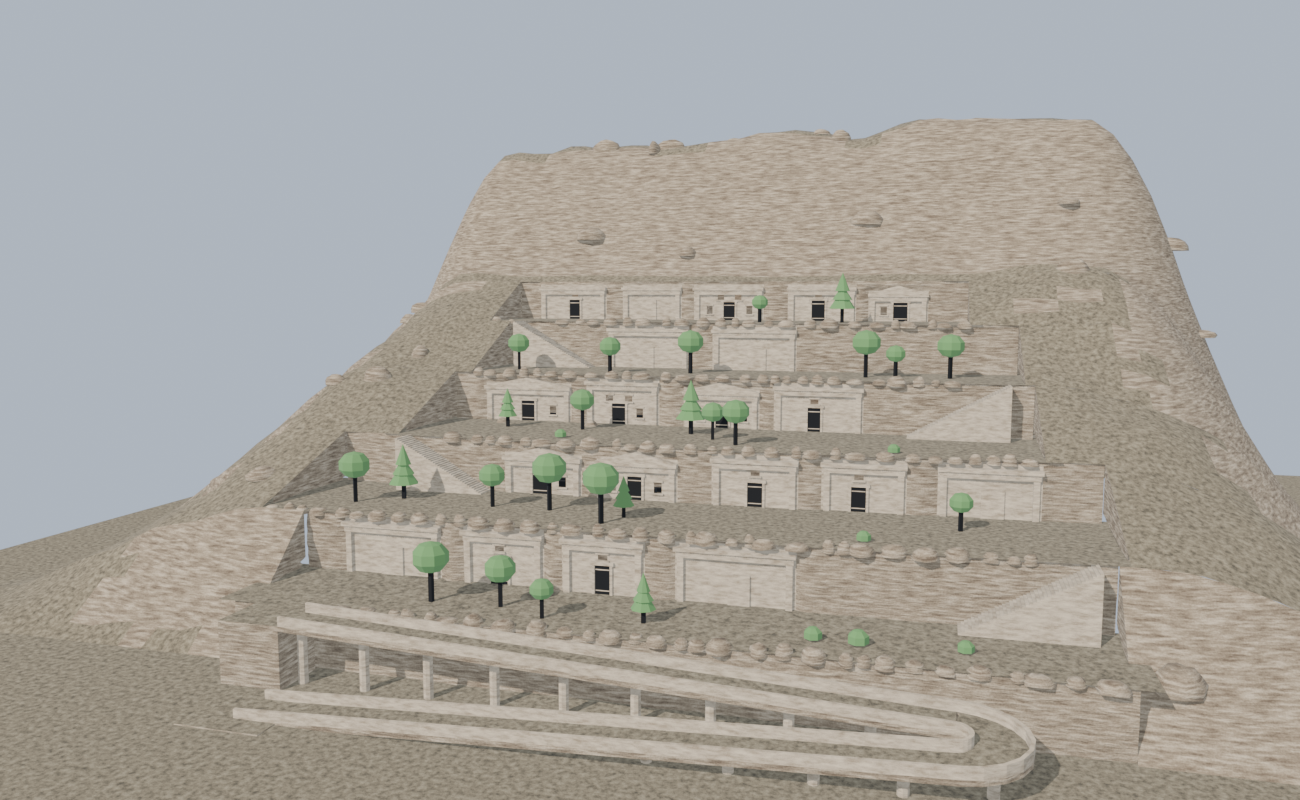
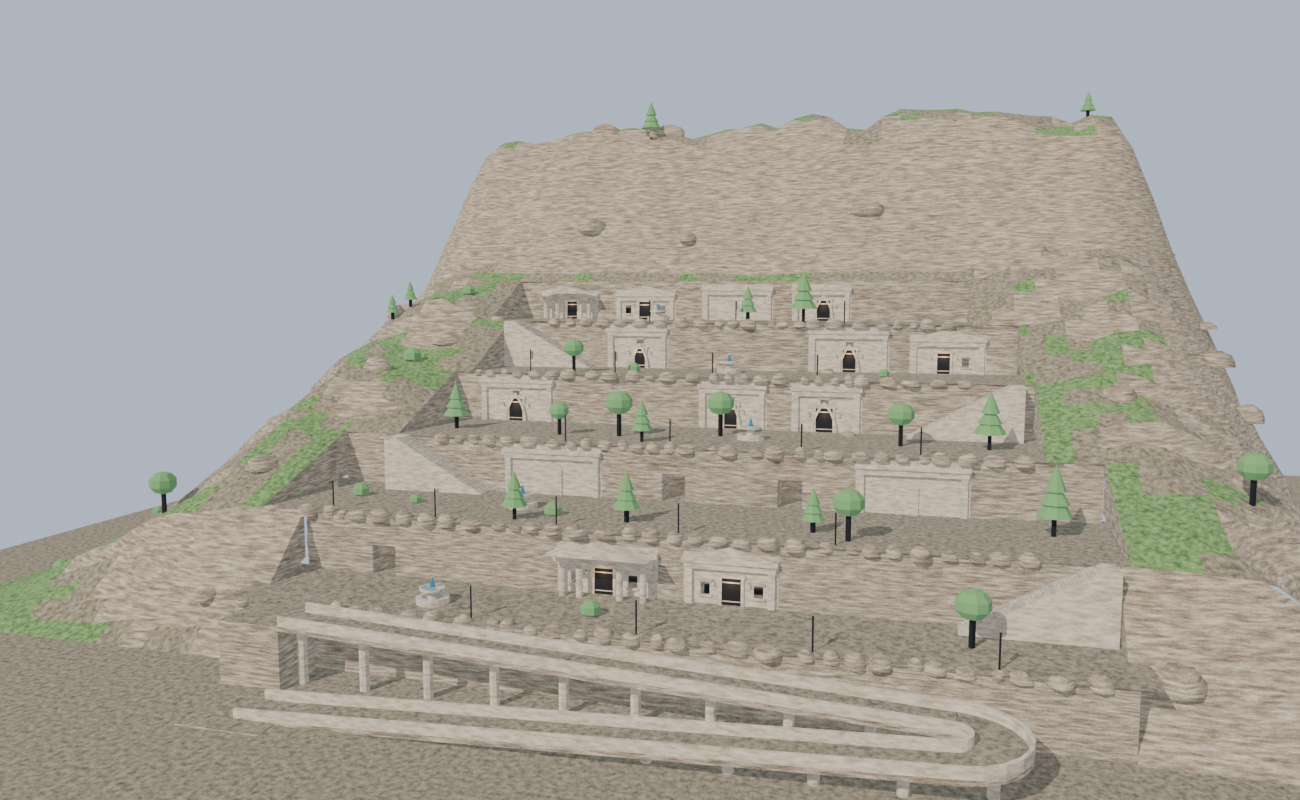
Release 0.62.0: richer rock city and one grouped Add-a-plan menu
Rock city: crags, grass and scrub on the mountain, porticos, arched tomb surrounds, lanterns, furnished rooms, caves with stalactites and a pool, fountains and flags. Plans panel: ~28 buttons replaced by one grouped Add menu (tested to offer every plan kind once); panel no longer experimental.

diff --git a/levelArchitect_v2.py b/levelArchitect_v2.py
@@ -33,7 +33,7 @@ from bpy_extras.io_utils import ExportHelper, ImportHelper
 bl_info = {
     "name": "Game Level Architect",
     "author": "Ivica Sršan",
-    "version": (0, 61, 0),
+    "version": (0, 62, 0),
     "blender": (4, 2, 0),
     "location": "View3D > Sidebar > Level Architect Tab",
     "description": "Procedural game level generator using Python WFC and automatic Geometry Nodes meshing.",
@@ -15280,6 +15280,8 @@ def _rock_material(kind):
     dim = lambda c, f: tuple(v * f for v in c)
     if part[0] == "CARVED":
         dark, mid, light, strata, grain, bump = dim(tone[1], 0.6), dim(tone[2], 0.75), dim(tone[2], 1.0), (0.5, 0.5, 2.0), 14.0, 0.12
+    elif part[0] == "GRASS":
+        dark, mid, light, strata, grain, bump = (0.05, 0.10, 0.03), (0.15, 0.26, 0.07), (0.30, 0.38, 0.13), (1.0, 1.0, 1.0), 7.0, 0.45
     elif part[0] == "GROUND":
         dark, mid, light, strata, grain, bump = (0.10, 0.08, 0.05), (0.26, 0.20, 0.12), (0.40, 0.32, 0.20), (1.0, 1.0, 1.0), 9.0, 0.35
     else:
@@ -15621,6 +15623,8 @@ def _rc_mountain(dm, seed):
         m = _rc_smooth(dist_city(x, y) / 10.0)
         amp = 1.5 + 0.1 * base
         n = (_rc_fbm(x * 0.035, y * 0.035, 3.7, seed, 4) - 0.5) * 2.0 * amp + (_rc_noise(x * 0.17, y * 0.17, 1.1, seed + 3) - 0.5) * 1.2
+        ridge = 1.0 - abs(2.0 * _rc_fbm(x * 0.06, y * 0.06, 9.1, seed + 9, 3) - 1.0)          # crags and ridges, stronger the higher it gets
+        n += (ridge - 0.5) * 7.0 * min(1.0, base / 25.0)
         return max(0.0, base + m * n * (1.0 if base > 0.4 else base / 0.4))
     N.boundary = lambda x, y: prof(y) * (1.0 - _rc_smooth((abs(x) - wc) / fl))
     N.x_extent = wc + fl
@@ -15652,7 +15656,7 @@ def _rc_natural_mesh(soup, N, dm, sd):
                     vx, vy, vz = pts[3][0] - pts[0][0], pts[3][1] - pts[0][1], pts[3][2] - pts[0][2]
                     nz = ux * vy - uy * vx
                     nl = math.sqrt((uy * vz - uz * vy) ** 2 + (uz * vx - ux * vz) ** 2 + nz * nz) or 1.0
-                    soup.poly('nat', pts, [(pt[0] / 6.0, pt[1] / 6.0) for pt in pts], (0.0, 0.0, 1.0), 2 if nz / nl > 0.82 else 0, smooth=True)
+                    soup.poly('nat', pts, [(pt[0] / 6.0, pt[1] / 6.0) for pt in pts], (0.0, 0.0, 1.0), (7 if nz / nl > 0.9 else 2) if nz / nl > 0.82 else 0, smooth=True)
     for k in range(dm["L"]):
         ya, yz = (y0 if k == 0 else yb[k - 1]), yb[k]
         ext = {-wl[j] for j in (k - 1, k, k + 1) if 0 <= j < dm["L"]} | {wr[j] for j in (k - 1, k, k + 1) if 0 <= j < dm["L"]}
@@ -15691,6 +15695,32 @@ def _rc_cave(soup, cx, yf, cyc, R, zk, rng, seed):
     for i in range(m):
         a, b = ring[i], ring[(i + 1) % m]
         soup.poly('cavef', [(a[0], a[1], zk), (b[0], b[1], zk), (cx, cyc, zk)], [(0, 0), (1, 0), (0.5, 1)], (0.0, 0.0, 1.0), 2)
+    # stalactites from the ceiling, stalagmites and a pool on the floor
+    obst = []
+    for i in range(8):
+        ang = rng.uniform(0, 6.28)
+        rr_ = rng.uniform(0.2, 0.75) * R
+        sx_, sy_ = cx + rr_ * math.cos(ang), cyc + rr_ * math.sin(ang)
+        zce = zc + (hc - zc) * (1.0 - min(1.0, rr_ / R))
+        rb, ln = rng.uniform(0.2, 0.4), rng.uniform(0.5, 1.2)
+        for q in range(6):
+            a0, a1 = 2 * math.pi * q / 6, 2 * math.pi * (q + 1) / 6
+            soup.poly('stal', [(sx_ + rb * math.cos(a0), sy_ + rb * math.sin(a0), zce), (sx_ + rb * math.cos(a1), sy_ + rb * math.sin(a1), zce), (sx_, sy_, zce - ln)],
+                      [(0, 0), (1, 0), (0.5, 1)], (math.cos((a0 + a1) / 2), math.sin((a0 + a1) / 2), -0.4), 0, smooth=True)
+    for i in range(3):
+        ang = rng.uniform(0, 6.28)
+        rr_ = rng.uniform(0.45, 0.8) * R
+        sx_, sy_ = cx + rr_ * math.cos(ang), cyc + rr_ * math.sin(ang)
+        if sy_ < cyc - 0.55 * R or (abs(sx_ - cx) < 0.7 * R + 0.5 and abs(sy_ - cyc) < 0.7 * R + 0.5 and R < 4.0):
+            continue
+        rb = rng.uniform(0.25, 0.45)
+        _cone(soup, sx_, sy_, zk, rb, rng.uniform(0.7, 1.5), 6, 0)
+        obst.append((sx_, sy_, rb + 0.1))
+    if R >= 4.0:
+        px_, py_ = cx + R * 0.15, cyc + R * 0.1
+        _tc_quad(soup, [_tc_pt(px_, py_, zk + 0.03, 1.1, 2 * math.pi * q / 10) for q in range(10)], (0, 0, 1), TC_WATER_SLOT)
+        obst.append((px_, py_, 1.2))
+    return obst
 
 
 def _build_rock_city(p, seed):
@@ -15785,7 +15815,7 @@ def _build_rock_city(p, seed):
                 fx += fw + rng.uniform(2.5, 6.0)
                 continue
             is_cave = rng.random() < 0.3 * float(p.get("caves", 0.5)) and k + 1 < L
-            kind = "cave" if is_cave else rng.choice(("temple", "house", "tomb", "tomb", "sealed"))
+            kind = "cave" if is_cave else rng.choice(("temple", "house", "tomb", "tomb", "portico", "sealed"))
             if is_cave:
                 fw = rng.uniform(9.0, 11.0)
                 if fx + fw > wr[k] - 4.0:
@@ -15793,7 +15823,7 @@ def _build_rock_city(p, seed):
                 if fx + fw + 1.0 > zone[0] and fx - 1.0 < zone[1]:
                     fx = zone[1] + 1.0
                     continue
-            fh = min(rk - 1.0, rk - 2.0 if kind == "temple" else rk - 1.0)
+            fh = min(rk - 1.0, rk - 2.0 if kind in ("temple", "portico") else rk - 1.0)
             fxm = fx + fw / 2 + rng.uniform(-0.6, 0.6)
             dw = rng.uniform(1.7, 2.3)
             dh = 3.0 if kind != "tomb" else 3.3
@@ -15804,7 +15834,7 @@ def _build_rock_city(p, seed):
             avail = rd
             rd = max(3.5, min(rd, rng.uniform(5.0, 9.0)))
             rx0, rx1 = fx + 0.9, fx + fw - 0.9
-            if kind == "temple":
+            if kind in ("temple", "portico"):
                 wins = [(fxm - fw * 0.3 - 0.5, fxm - fw * 0.3 + 0.5, 1.0, 2.4), (fxm + fw * 0.3 - 0.5, fxm + fw * 0.3 + 0.5, 1.0, 2.4)]
             elif kind == "house":
                 wins = [(fxm - fw * 0.3 - 0.5, fxm - fw * 0.3 + 0.5, 1.0, 2.4), (fxm + fw * 0.3 - 0.5, fxm + fw * 0.3 + 0.5, 1.0, 2.4),
@@ -15822,9 +15852,10 @@ def _build_rock_city(p, seed):
                     flats.append((fxm - 2.6, fxm + 2.6, zk, zk + 4.4, yf, 0))
                     holes.append((fxm - 1.5, fxm + 1.5, zk, zk + 3.4))
                     cyc = yf + 3.0 + 0.3 * cR + 0.7 * cR
-                    _rc_cave(soup, fxm, yf, cyc, cR, zk, rng, sd + int(fxm * 3) + k)
+                    cobst = _rc_cave(soup, fxm, yf, cyc, cR, zk, rng, sd + int(fxm * 3) + k)
                     layout["rooms"].append({"rect": [fxm - 1.5, yf, fxm + 1.5, cyc - 0.7 * cR], "z": zk, "door": [fxm - 1.5, fxm + 1.5], "wall": ybl, "furn": [], "kind": "cave"})
-                    layout["rooms"].append({"rect": [fxm - 0.7 * cR, cyc - 0.7 * cR, fxm + 0.7 * cR, cyc + 0.7 * cR], "z": zk, "door": [fxm - 1.5, fxm + 1.5], "wall": ybl, "furn": [], "kind": "cave"})
+                    layout["rooms"].append({"rect": [fxm - 0.7 * cR, cyc - 0.7 * cR, fxm + 0.7 * cR, cyc + 0.7 * cR], "z": zk, "door": [fxm - 1.5, fxm + 1.5], "wall": ybl,
+                                            "furn": [[ox_, oy_, 0.0, orr, orr] for ox_, oy_, orr in cobst if abs(ox_ - fxm) < 0.7 * cR and abs(oy_ - cyc) < 0.7 * cR], "kind": "cave"})
                     lights.append([fxm, cyc, zk + 3.0, 200.0])
                     layout["throats"].append([fxm - 1.5, ybl - 0.3, fxm + 1.5, yf + 0.3, zk])
                     layout["facades"] += 1
@@ -15839,8 +15870,24 @@ def _build_rock_city(p, seed):
                 _tc_box(soup, px, yf - 0.25, zk, 0.7, 0.5, fh - 1.2, 1)
             _tc_box(soup, fx + fw / 2, yf - 0.3, zk + fh - 1.2, fw + 0.2, 0.6, 0.7, 1)
             _tc_box(soup, fx + fw / 2, yf - 0.45, zk + fh - 0.5, fw + 0.7, 0.9, 0.5, 1)
-            if kind == "temple":
-                _rc_pediment(soup, fx + fw / 2, yf - 0.1, zk + fh, fw + 0.7, 1.3, 0.8)
+            if kind in ("temple", "portico"):
+                _rc_pediment(soup, fx + fw / 2, yf - (1.9 if kind == "portico" else 0.1), zk + fh, fw + 0.7, 1.3, 0.8 if kind == "temple" else 2.6)
+            if kind == "portico":                                                  # free-standing columns carrying the front
+                _tc_box(soup, fx + fw / 2, yf - 1.0, zk + fh - 1.2, fw + 0.2, 2.0, 0.7, 1)
+                for cxx in (fx + 0.9, fxm - dw / 2 - 1.2, fxm + dw / 2 + 1.2, fx + fw - 0.9):
+                    _tc_cyl(soup, cxx, yf - 1.7, zk, 0.38, fh - 1.2, 10, 1)
+                    circles.append([cxx, yf - 1.7, 0.5, zk])
+            if kind == "tomb" and not sealed:                                      # a pointed arch round the door
+                aa, rr_ = dw / 2 + 0.45, dh + 0.7
+                crv = [(fxm + u, zk + z) for u, z in _ac_curve(aa, rr_, 8)]
+                for pa, pb in zip(crv, crv[1:]):
+                    _ac_beam(soup, yf - 0.3, pa, pb, 0.3, 0.55, 1)
+            if not sealed:                                                         # a lantern on each side of the door
+                for sx_ in (-1.0, 1.0):
+                    lx_ = fxm + sx_ * (dw / 2 + 0.9)
+                    _tc_box(soup, lx_, yf - 0.3, zk + 2.2, 0.22, 0.22, 0.35, 1)
+                    _cone(soup, lx_, yf - 0.3, zk + 2.55, 0.18, 0.2, 6, ROOF_SOURCE_SLOT)
+                lights.append([fxm, yf - 0.8, zk + 2.4, 70.0])
             layout["facades"] += 1
             if sealed:
                 _tc_box(soup, fxm, yf - 0.15, zk, dw + 0.6, 0.3, dh + 0.3, 1)
@@ -15866,8 +15913,20 @@ def _build_rock_city(p, seed):
                 furn.append([(rx0 + rx1) / 2, ry1 - 0.5, 0.0, bw / 2, 0.45])
                 if rx1 - rx0 > 5.0 and rd > 5.5:
                     tx_, ty_ = (rx0 + rx1) / 2 + rng.uniform(-0.8, 0.8), yf + rd * 0.58
-                    _tc_box(soup, tx_, ty_, zk, 1.6, 0.9, 0.8, 3)
-                    furn.append([tx_, ty_, 0.0, 0.8, 0.45])
+                    if kind == "tomb":                                              # a sarcophagus with a lid
+                        _tc_box(soup, tx_, ty_, zk, 2.2, 0.95, 0.75, 1)
+                        _tc_box(soup, tx_, ty_, zk + 0.75, 2.4, 1.1, 0.2, 1)
+                        furn.append([tx_, ty_, 0.0, 1.2, 0.55])
+                    else:
+                        _tc_box(soup, tx_, ty_, zk, 1.6, 0.9, 0.8, 3)
+                        furn.append([tx_, ty_, 0.0, 0.8, 0.45])
+                if rx1 - rx0 > 6.5 and rd > 6.2 and kind != "tomb":                # shelves along the side walls
+                    for sxs in (rx0 + 0.3, rx1 - 0.3):
+                        _tc_box(soup, sxs, yf + rd * 0.5, zk, 0.5, rd * 0.4, 1.9, 3)
+                        furn.append([sxs, yf + rd * 0.5, 0.0, 0.3, rd * 0.2])
+                for bxx in ((rx0 + 0.6, rx1 - 0.6) if rd > 5.0 else ()):            # barrels in the back corners
+                    _tc_cyl(soup, bxx, ry1 - 1.6, zk, 0.4, 0.9, 10, 3)
+                    furn.append([bxx, ry1 - 1.6, 0.0, 0.45, 0.45])
             lights.append([(rx0 + rx1) / 2, yf + rd * 0.5, zc - 0.5, 160.0])
             layout["door_panels"].append([fxm - dw / 2, yf, zk, 0.0, dw - 0.05, dh - 0.05])
             layout["rooms"].append({"rect": [rx0, yf, rx1, ry1], "z": zk, "door": [fxm - dw / 2, fxm + dw / 2], "wall": ybl, "furn": furn, "kind": kind})
@@ -15945,6 +16004,37 @@ def _build_rock_city(p, seed):
             else:
                 _tc_bush(soup, tx_, ty_, zs[k], rng.uniform(0.7, 1.2), rng)
                 circles.append([tx_, ty_, 0.9, zs[k]])
+    # --- a fountain on most ledges, flags along the front lips
+    for k in range(L):
+        ya_k = (y0 if k == 0 else yb[k - 1])
+        for _ in range(8):
+            fxx = rng.uniform(-wl[k] * 0.6, wr[k] * 0.6)
+            fyy = (ya_k + yb[k]) / 2.0 + rng.uniform(-1.5, 1.5)
+            if k == 0 and pad and pad[0] - 6.0 < fxx < pad[2] + 6.0:
+                continue
+            if rng.random() > 0.8 or any(c[3] == zs[k] and math.hypot(fxx - c[0], fyy - c[1]) < c[2] + 3.2 for c in circles):
+                continue
+            _tc_fountain(soup, fxx, fyy, zs[k], 1.8)
+            circles.append([fxx, fyy, 2.1, zs[k]])
+            lights.append([fxx, fyy, zs[k] + 2.8, 120.0])
+            break
+        sagf_f = _rc_sag(cb[k - 1], -wl[k - 1], wr[k - 1]) if k > 0 else (lambda x: 0.0)
+        fgx = -wl[k] + 9.0
+        while fgx < wr[k] - 8.0:
+            gap_ = None
+            if k == 0 and pad:
+                gap_ = (pad[0] - 2.0, pad[2] + 2.0)
+            elif k == 0:
+                gap_ = (-4.5, 4.5)
+            elif k > 0:
+                st_ = layout["stairs"][k - 1]
+                gap_ = (st_["x0"] - 2.0, st_["x1"] + 2.0)
+            if not (gap_ and gap_[0] < fgx < gap_[1]):
+                fy_ = ya_k + sagf_f(fgx) + 1.6
+                _tc_cyl(soup, fgx, fy_, zs[k], 0.09, 3.4, 6, 3)
+                _tc_box(soup, fgx + 0.02, fy_ + 0.5, zs[k] + 1.9, 0.04, 1.0, 1.3, 1)
+                circles.append([fgx, fy_, 0.25, zs[k]])
+            fgx += rng.uniform(13.0, 19.0)
     # --- boulders and scrub on the mountain itself
     for _ in range(int(40 + 0.5 * dm["wmax"])):
         bx_, by_ = rng.uniform(-N.x_extent, N.x_extent), rng.uniform(y0 - 10.0, dm["y_back"] + dm["tail"] * 0.8)
@@ -15953,6 +16043,18 @@ def _build_rock_city(p, seed):
         bz = N(bx_, by_)
         if bz > 0.5:
             _rc_blob(soup, bx_, by_, bz - 0.4, rng.uniform(1.0, 3.2), rng.uniform(1.0, 3.0), rng.uniform(0.8, 2.4), sd + int(bx_ * 3), 0, 4, 8)
+    for _ in range(int(120 + 1.2 * dm["wmax"])):                                    # scrub and a few trees on the gentle slopes
+        bx_, by_ = rng.uniform(-N.x_extent, N.x_extent), rng.uniform(y0 + 2.0, dm["y_back"] + dm["tail"] * 0.7)
+        if any(-wl[k] - 4.0 < bx_ < wr[k] + 4.0 and (y0 if k == 0 else yb[k - 1]) - 4.0 < by_ < yb[k] + 4.0 for k in range(L)):
+            continue
+        bz = N(bx_, by_)
+        if bz < 0.6 or max(abs(N(bx_ + 2.0, by_) - bz), abs(N(bx_, by_ + 2.0) - bz)) / 2.0 > 0.55:
+            continue
+        if rng.random() < 0.3:
+            tp = {"height": rng.uniform(4.0, 7.5), "crown": 'ROUND' if rng.random() < 0.4 else 'CONE', "leaf": 'GREEN'}
+            soup.append(_build_tree_mesh(tp, rng.randint(1, 999999)), rot=rng.uniform(0, 6.28), offset=(bx_, by_, bz - 0.2))
+        else:
+            _tc_bush(soup, bx_, by_, bz - 0.2, rng.uniform(0.7, 1.5), rng)
     layout["radius"] = math.hypot(dm["width"], dm["depth"]) / 2
     return soup, layout
 
@@ -16095,7 +16197,7 @@ def _plan_build_rock_city(context, node, world, seed, path):
     context.scene.collection.objects.link(obj)
     tone = p["rock"]
     base = [_rock_material("CLIFF_" + tone), _rock_material("CARVED_" + tone), _rock_material("GROUND"), get_or_create_wood_material('DARK')]
-    for mat_ in base + [get_or_create_leaf_material('GREEN'), _water_material(), _rock_material("GROUND"), _gold_material()]:
+    for mat_ in base + [get_or_create_leaf_material('GREEN'), _water_material(), _rock_material("GROUND"), _rock_material("GRASS")]:
         mesh.materials.append(mat_)
     _add_viewport_color_attribute(mesh)
     layout["oy"] = yc
@@ -18885,32 +18987,45 @@ class VIEW3D_PT_GameLevelArchitect(bpy.types.Panel):
         collision_row.enabled = bpy.data.objects.get(BLUEPRINT_OBJECT_NAME) is not None
 
 
+PLAN_ADD_GROUPS = (
+    ("Buildings", (('TOWER', "Tower"), ('CASTLE', "Castle"), ('FORTRESS', "Fortress"), ('HOUSE', "House"), ('CHAPEL', "Chapel"), ('STABLE', "Stable"),
+                   ('HUT', "Hut"), ('MANSION', "Mansion (Bear Wood plan)"), ('VILLA', "Villa (random plan)"), ('SWAN', "Swan castle"))),
+    ("Places", (('GROUNDS', "Grounds"), ('FARM', "Farm"), ('HAMLET', "Hamlet"), ('STREET', "Street"), ('BLOCK', "Block"), ('HUTS', "Hut cluster"),
+                ('TOWN', "Walled town"), ('CITY', "City"))),
+    ("Cities on hills and in rock", (('TERRACES', "Terrace city"), ('TWIN', "Twin peaks"), ('LAND', "City on land"), ('ROCK', "Rock city"))),
+    ("Ground", (('TERRAIN', "Terrain"),)),
+)
+
+
+class VIEW3D_MT_GLAPlanAdd(bpy.types.Menu):
+    """One menu instead of a wall of buttons: every kind of plan, grouped."""
+    bl_idname = "VIEW3D_MT_gla_plan_add"
+    bl_label = "Add a plan"
+
+    def draw(self, context):
+        layout = self.layout
+        for title, items in PLAN_ADD_GROUPS:
+            layout.label(text=title)
+            for kind, label in items:
+                layout.operator("object.gla_plan_create", text=label).kind = kind
+            layout.separator()
+
+
 class VIEW3D_PT_GLAPlans(bpy.types.Panel):
     bl_space_type = 'VIEW_3D'
     bl_region_type = 'UI'
     bl_category = 'Level Architect'
-    bl_label = "Plans (experimental)"
+    bl_label = "Plans"
     bl_parent_id = "VIEW3D_PT_GameLevelArchitect"
-    bl_options = {'DEFAULT_CLOSED'}
 
     def draw(self, context):
         layout = self.layout
-        layout.prop(context.scene, "wfc_plan_style", text="Style")
-        layout.prop(context.scene, "wfc_plan_shape", text="Shape")
-        layout.prop(context.scene, "wfc_plan_biome", text="Biome")
-        layout.label(text="New plan at the 3D cursor:")
-        row = layout.row(align=True)
-        for kind, label in (('TOWER', "Tower"), ('CASTLE', "Castle"), ('GROUNDS', "Grounds"), ('FORTRESS', "Fortress")):
-            row.operator("object.gla_plan_create", text=label).kind = kind
-        row = layout.row(align=True)
-        for kind, label in (('HOUSE', "House"), ('CHAPEL', "Chapel"), ('STABLE', "Stable")):
-            row.operator("object.gla_plan_create", text=label).kind = kind
-        row = layout.row(align=True)
-        for kind, label in (('FARM', "Farm"), ('HAMLET', "Hamlet"), ('STREET', "Street"), ('BLOCK', "Block")):
-            row.operator("object.gla_plan_create", text=label).kind = kind
-        row = layout.row(align=True)
-        for kind, label in (('HUT', "Hut"), ('HUTS', "Huts"), ('TOWN', "Town"), ('CITY', "City"), ('TERRACES', "Terraces"), ('TWIN', "Twin"), ('LAND', "Land"), ('SWAN', "Swan"), ('MANSION', "Mansion"), ('VILLA', "Villa"), ('ROCK', "Rock city"), ('TERRAIN', "Terrain")):
-            row.operator("object.gla_plan_create", text=label).kind = kind
+        box = layout.box()
+        col = box.column(align=True)
+        col.prop(context.scene, "wfc_plan_style", text="Style")
+        col.prop(context.scene, "wfc_plan_shape", text="Shape")
+        col.prop(context.scene, "wfc_plan_biome", text="Biome")
+        layout.menu("VIEW3D_MT_gla_plan_add", text="Add a plan at the 3D cursor", icon='ADD')
         for plan_id in plan_list_ids():
             box = layout.box()
             box.label(text=plan_id, icon='OUTLINER_COLLECTION')
@@ -18969,6 +19084,7 @@ classes = (
     OBJECT_OT_FloorProfileAdd,
     OBJECT_OT_FloorProfileRemove,
     VIEW3D_PT_GameLevelArchitect,
+    VIEW3D_MT_GLAPlanAdd,
     VIEW3D_PT_GLAPlans,
 )
 

diff --git a/tests/blender_headless_test.py b/tests/blender_headless_test.py
@@ -5520,6 +5520,8 @@ check("Rock city: curved terraces (every wall bows) and caves (a tunnel and an u
       sum(1 for q in rl3["rooms"] if q["kind"] == "cave") >= 4 and any(abs(l_["cb"]) > 1.0 for l_ in rl3["ledges"]) and addon.rock_city_walk_check(rl3)["ok"], str(addon.rock_city_walk_check(rl3)))
 _, rl4 = addon._build_rock_city({**addon.PLAN_ROCK_DEFAULTS, "caves": 0.0, "curve": 0.0}, 5)
 check("Rock city: caves=0 and curve=0 give straight walls and no caves", not any(q["kind"] == "cave" for q in rl4["rooms"]) and all(l_["cb"] == 0.0 for l_ in rl4["ledges"]))
+check("Plans panel: the grouped Add menu offers every kind of plan the create operator knows, each once",
+      sorted(k_ for g_ in addon.PLAN_ADD_GROUPS for k_, _ in g_[1]) == sorted(i_[0] for i_ in addon.OBJECT_OT_PlanCreate.__annotations__["kind"].keywords["items"]))
 try:
     addon.plan_build(bpy.context, addon.plan_node("badrock", "building", "rock_city", params={"levels": 20}))
     check("Rock city: a bad level count is refused", False)

diff --git a/CHANGELOG.md b/CHANGELOG.md
@@ -3,10 +3,16 @@
 Game Level Architect — early testing release. Generation is fully seeded, so any level can be
 reproduced exactly from its settings (see **Debug: Last Generation Params** in the panel).
 
+## 0.62.0 — richer rock city, one Add menu
+
+(see the two entries below under 0.61.0 — they ship in 0.62.0)
+
 ## 0.61.0 — plans: the rock city
 
 - **`rock_city` building** (**Rock city** button): a city carved into a mountain. **The mountain is made first** (a ridge height function that follows the stepped profile of the city and climbs on to a summit behind it, rock on steep cells, earth on gentle ones) and the ledges are cut into it: they taper towards the summit, are uneven (rise, depth, left and right width all vary), and each ledge's side cuts reach up to the mountain's own surface. Ledges one above the other (`levels` 2-8, `rise`, `depth`, `width`), a cliff wall behind each ledge with **carved facades** (temple fronts with a pediment, house fronts with windows, tombs, some sealed) cut into it, a **real room behind every facade** (floor, ceiling, bench and table, a lamp, the door leaf as a separate `..._Panel_NNN` object that opens), stairs up the side of every cliff (alternating sides), boulders along the edges, trees and bushes on the ledges, rock flanks and a summit mass with lumpy skyline. A **serpentine road** with parapets zigzags up to the first ledge (`road`; without it a straight flight of steps).
 - **Curved terraces** (`curve`): every ledge wall bows forward or back along a parabola (zero at the ledge ends), so the terraces are no longer straight; facades sit flat on their own face and follow the curve. **Caves** (`caves`): a doorway cut into the rock opens on a short tunnel and an uneven chamber (a lumpy ring of rock walls, a domed ceiling, an earth floor) under the ledge above; walkable and checked. **No cracks**: the cut walls come flush with the mountain's surface at the top and the floors run on under the rock.
+- **Richer rock city**: crags and ridges on the mountain, grass on gentle slopes with scrub and trees, columned **porticos** with free-standing columns, pointed-arch surrounds on tombs (the arch beam helpers at work), lanterns beside every door, rooms with shelves, barrels and sarcophagi, caves with stalactites, stalagmites and a pool, fountains on the ledges and flags along the lips.
+- **Simpler Plans panel**: the wall of ~28 buttons is one **Add a plan at the 3D cursor** menu, grouped (buildings, places, cities on hills and in rock, ground); the panel is no longer "experimental" and opens by default; a test checks the menu offers every kind exactly once.
 - **Organic materials**: procedural rock built from stretched noise bands (strata) and fine grain on object coordinates, no image tiles — three tones (`rock`: SAND / GREY / RED), a lighter carved-stone material for the facades and a dusty ground.
 - **`rock_city_walk_check`**: a grid walk from the foot of the road proves the road, every ledge, the stairs and every room through its door can be reached; obstacles block only at their own height. The walk is two-layered (the surface and the insides under the ledges, joined only at doorways), so rooms and caves under a ledge never hide its floor. The tests run it for several seeds, level counts and the no-road variant.
 - The great-arch idea for the terrace city was tried and dropped (too big); the arch beam / road helpers (`_ac_beam`, `_ac_curve`, `_ac_ramp`, `_ac_spiral`) are kept for gates and entrances.

diff --git a/README.md b/README.md
@@ -172,7 +172,7 @@ levels above a basement, on stilts, as dwelling or storage — and they can be *
   keep the way from the gate to the castle free and turn doors toward it.
 * **Blocks**: a road graph (hand-made or generated: grid, organic, ring) with kerbed stone roads and buildings along both sides; a block can
   also be a road between two anchors, e.g. farm gate to castle gate.
-* In Blender: sidebar **Level Architect > Plans (experimental)** — choose **Style**, **Shape** and **Biome**, pick a button, press **Build**.
+* In Blender: sidebar **Level Architect > Plans** — choose **Style**, **Shape** and **Biome**, open **Add a plan at the 3D cursor** (plans are grouped: buildings, places, cities on hills and in rock, ground), press **Build**.
   Full guide: [docs/USER_GUIDE.md](docs/USER_GUIDE.md#plans-sites-villages-towns); format: [docs/PLAN_FORMAT.md](docs/PLAN_FORMAT.md);
   roadmap towards bigger settlements, rivers and regions: [docs/WORLD_GENERATOR_PLAN.md](docs/WORLD_GENERATOR_PLAN.md).
 

diff --git a/docs/USER_GUIDE.md b/docs/USER_GUIDE.md
@@ -100,7 +100,7 @@ gone. Doorways stay passable. The result is seeded, so a ruin is reproducible.
 ## Plans: sites, villages, towns
 
 *Experimental.* A **plan** describes a whole site as nested data — a fortress with a keep and corner towers, a farm, a hamlet,
-a street, a district, a cluster of huts — and builds it for you. Open **Level Architect > Plans (experimental)** in the sidebar.
+a street, a district, a cluster of huts — and builds it for you. Open **Level Architect > Plans** in the sidebar and choose **Add a plan at the 3D cursor**; the kinds are grouped into buildings, places, cities on hills and in rock, and ground.
 
 1. Pick a **Style** (the look of the buildings), a **Shape** (regular, round or organic outlines and streets) and, for terrain, a **Biome**.
 2. Press one of the buttons — **Tower, Castle, Grounds, Fortress, Farm, Hamlet, Street, Block, House, Chapel, Stable, Hut, Huts, Town, Terrain**.

diff --git a/DEVELOPMENT.md b/DEVELOPMENT.md
@@ -4,7 +4,7 @@ Internal dev-facing doc: what's built, what's known-broken, what's next. Not for
 (see `dist/README.md` for that). Source of truth for the addon's actual behavior is always
 `levelArchitect_v2.py` — this file can drift out of date; the code can't.
 
-Current version: **0.61.0** (see `bl_info` in the source file).
+Current version: **0.62.0** (see `bl_info` in the source file).
 
 §2 (Development tree) was condensed 2026-08-21 — dropped the blow-by-blow investigation
 narrative and per-run stress-test numbers from older, fully-resolved entries, kept every
